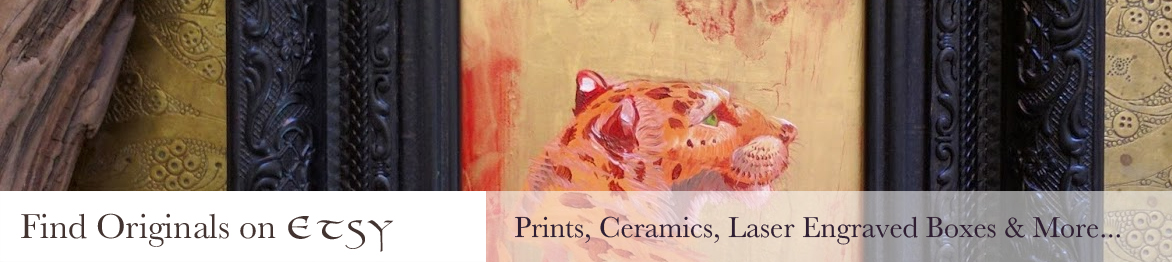
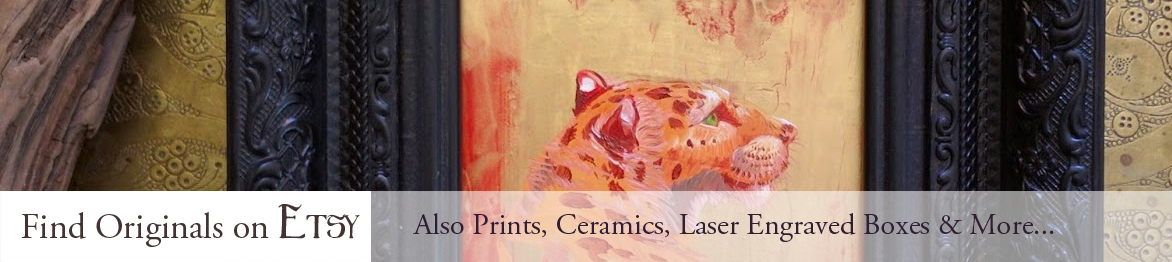
Update headers and fix font

Changed region(s): [[0.0, 0.7023, 0.9522, 1.0]]

diff --git a/about/index.html b/about/index.html
@@ -2,24 +2,32 @@
 # this is an empty front matter
 ---
 {% include header.html %}
+<div class="d-none d-lg-block">
+    <div class="row">
+        <div class="col" style="max-width: 35vw;">
+            <img style="max-width: 31vw; margin: 2vw; margin-top: 0vw;" src="/static/portrait.jpg"/>
+            <img style="width:35vw;" src="/static/about_header.png"/>
 
-                <h2>About The Artist</h2>
-                <hr />
 
-                <img class="d-none d-lg-block about-portrait" src="/static/portrait.png"/>
+        
+            My childhood was spent moving, changing locations and school environments. My constant companions became a dragon’s horde of fantasy novels and my animals. This connection to creatures through the lens of fantasy has always been a touchstone for my work.
+            <br/>
+            <br/>
+            Through the years, I’ve experimented with many different media, wandering many paths. Now I’ve settled into the twin focuses of watercolor and oils. I find the dichotomy of their approach refreshing, and each time my hands move from one to the other I approach my work with new ideas and a cleaner view of where I should go.
+            <br/>
+            <br/>
+            Art is a way for my to communicate my love of the natural world and the fantasy I see within it. I think that the creation of a narrative around wildlife and fantastical animals can lead people to see the world and the many lives encompassed within it with more compassion and joy, returning the wonder of childlike curiosity to their lives.
+            <br/>
+            <br/>
+            I enjoy employing abstract backgrounds with minutely detailed subjects. The duality of the abstract work with small areas of focus lets the viewer fill in parts of strange color fields with their own story. My inspiration from nature and the narratives I like to weave around the strange beasts in my paintings lets me tell soundless stories to those who wish to explore them. In my paintings, bears covered in moss and trailing mushrooms emerge from the mist, gryphons dive from heights unknown with jewelry trailing them, and sphinxes ask questions unheard from behind blank masks. Where they come from, and what they want to say is left for those who watch them to determine. I hope through my work people can find a bit of mystery, of that wonder you have as a child making shapes in clouds, imagining what monster is in the closet, and making each walk in the woods a journey that may take them to Narnia, to Middle Earth, or to a world of their own making.
+        </div>
+        <div class="col">
+            <img style="max-width:25vw;" src="/static/bio_art.jpg">
+        </div>
+    </div>
+</div>
+<div class="d-md-none">
 
-                My childhood was spent moving, changing locations and school environments. My constant companions became a dragon’s horde of fantasy novels and my animals. This connection to creatures through the lens of fantasy has always been a touchstone for my work.
-                <br/>
-                <br/>
-
-                Through the years, I’ve experimented with many different media, wandering many paths. Now I’ve settled into the twin focuses of watercolor and oils. I find the dichotomy of their approach refreshing, and each time my hands move from one to the other I approach my work with new ideas and a cleaner view of where I should go.
-                <br/>
-                <br/>
-                Art is a way for my to communicate my love of the natural world and the fantasy I see within it. I think that the creation of a narrative around wildlife and fantastical animals can lead people to see the world and the many lives encompassed within it with more compassion and joy, returning the wonder of childlike curiosity to their lives.
-                <br/>
-                <br/>
-                I enjoy employing abstract backgrounds with minutely detailed subjects. The duality of the abstract work with small areas of focus lets the viewer fill in parts of strange color fields with their own story. My inspiration from nature and the narratives I like to weave around the strange beasts in my paintings lets me tell soundless stories to those who wish to explore them. In my paintings, bears covered in moss and trailing mushrooms emerge from the mist, gryphons dive from heights unknown with jewelry trailing them, and sphinxes ask questions unheard from behind blank masks. Where they come from, and what they want to say is left for those who watch them to determine. I hope through my work people can find a bit of mystery, of that wonder you have as a child making shapes in clouds, imagining what monster is in the closet, and making each walk in the woods a journey that may take them to Narnia, to Middle Earth, or to a world of their own making.
-                <br/>
-                <br/>
+</div>
 
 {% include footer.html %}

diff --git a/shop/index.html b/shop/index.html
@@ -2,42 +2,42 @@
 # this is an empty front matter
 ---
 {% include header.html %}
-
-                <h2>Shop & More</h2>
-                <hr />
+                <div class="row d-flex justify-content-center" style="max-width: 90vw; margin-bottom: 1rem;">
+                    <img src="/static/shop_header.png"/>
+                </div>
                 <div class="d-none d-md-block">
-                    <div class="row shop_row">
+                    <div class="row d-flex justify-content-center">
                         <a href="https://www.patreon.com/LauraGarabedian">
                             <img src="/static/patreon_banner.jpg" class="shop_img" />
                         </a>
                     </div>
-                    <div class="row shop_row">
+                    <div class="row d-flex justify-content-center">
                         <a href="https://www.etsy.com/shop/LauraGarabedian">
                             <img src="/static/etsy_banner.jpg" class="shop_img" />
                         </a>
                     </div>
-                    <div class="row shop_row">
+                    <div class="row d-flex justify-content-center">
                         <a href="https://www.redbubble.com/people/lauragarabedian/">
                             <img src="/static/redbubble_banner.jpg" class="shop_img" />
                         </a>
                     </div>
                 </div>
                 <div class="d-md-none">
-                    <div class="row shop_row">
+                    <div class="row">
                             <div class="col">
                         <a href="https://www.patreon.com/LauraGarabedian">
                             <img src="/static/patreon_banner_mobile.jpg" class="shop_img" />
                         </a>
                         </div>
                     </div>
-                    <div class="row shop_row">
+                    <div class="row">
                         <div class="col">
                             <a href="https://www.etsy.com/shop/LauraGarabedian">
                                 <img src="/static/etsy_banner_mobile.jpg" class="shop_img" />
                             </a>
                         </div>
                     </div>
-                    <div class="row shop_row">
+                    <div class="row">
                             <div class="col">
                         <a href="https://www.redbubble.com/people/lauragarabedian/">
                             <img src="/static/redbubble_banner_mobile.jpg" class="shop_img" />

diff --git a/_includes/header.html b/_includes/header.html
@@ -14,7 +14,6 @@
     <meta charset="utf-8">
     <meta name="viewport" content="width=device-width, initial-scale=1, shrink-to-fit=no">
     <link rel="stylesheet" href="/static/bootstrap.min.css">
-    <link href="https://fonts.googleapis.com/css?family=Marcellus+SC" rel="stylesheet">
     <link rel="stylesheet" href="/static/style.css">
 
     <title>Fantasy and Creature Art | Laura Garabedian</title>

diff --git a/contact/index.html b/contact/index.html
@@ -2,9 +2,6 @@
 # this is an empty front matter
 ---
 {% include header.html %}
-
-                <h2>Contact</h2>
-                <hr />
                 <div class="row">
                     <div class="col">
                             Please feel free to email me at <a href="mailto:art@lauragarabedian.com"/>Art@LauraGarabedian.com</a> or use the contact form below:<br/>

diff --git a/static/style.css b/static/style.css
@@ -1,5 +1,5 @@
 body {
-    font-family: 'Marcellus SC', serif;
+    font-family: Garamond,Baskerville,Baskerville Old Face,Hoefler Text,Times New Roman,serif;
     min-height: 100vh;
 }
 
@@ -108,11 +108,6 @@ a:visited {
     float: right;
 }
 
-.shop_row {
-    margin-top: 1rem;
-    margin-bottom: 1.5rem;
-    width: 100%;
-}
 
 .shop_img {
     width: 100%;

diff --git a/_layouts/gallery_page.html b/_layouts/gallery_page.html
@@ -2,8 +2,6 @@
 layout: page
 ---
 {% include header.html %}
-<h2><a href="/{{ site.gallery.dir }}">{{ page.title }}</a></h2>
-<hr />
 <div class="d-flex flex-row flex-wrap">
 {% for image in page.images %}
     <div class="gallery-image">

diff --git a/_layouts/gallery_index.html b/_layouts/gallery_index.html
@@ -2,8 +2,6 @@
 layout: page
 ---
 {% include header.html %}
-<h2>Gallery</h2>
-<hr />
 <div class="d-none d-md-block">
     <div>
     {% for gallery in page.galleries reversed %}
